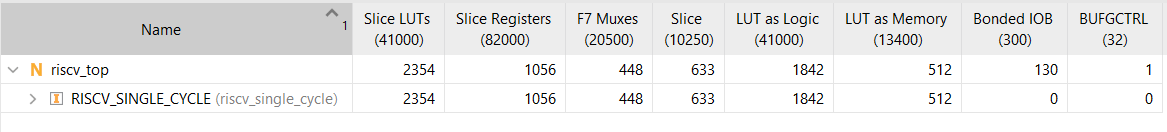
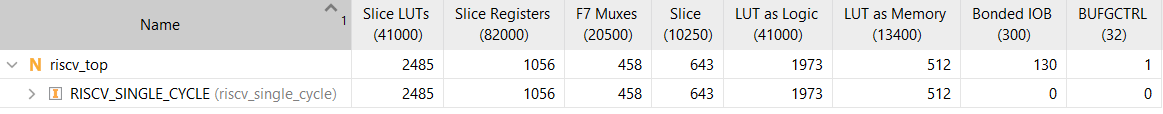
Corrected Results

diff --git a/README.md b/README.md
@@ -61,7 +61,7 @@ This project implements a single cycle RISCV processor. A RISCV processor has th
 
 The design was simulated and synthesized in AMD Vivado 2024.2 for a Kintex-7 based board.
 
-The single cycle processor was targetted for a 50 MHz frequency. The design implemented in Vivado successfully matched the initial target frequency of 50MHz. After multiple modifications in constraints, the maximum frequency of the design was calculated to be around 90MHz, which is far more optimal than the initial target. The total power consumption came out to be 0.249 W.
+The single cycle processor was targetted for a 50 MHz frequency. The design implemented in Vivado successfully matched the initial target frequency of 50MHz. After multiple modifications in constraints, the maximum frequency of the design was calculated to be around 90MHz, which is far more optimal than the initial target. The total power consumption came out to be 0.259 W.
 
 ![Timing Report for the Design](Timing_Report.png)
 
